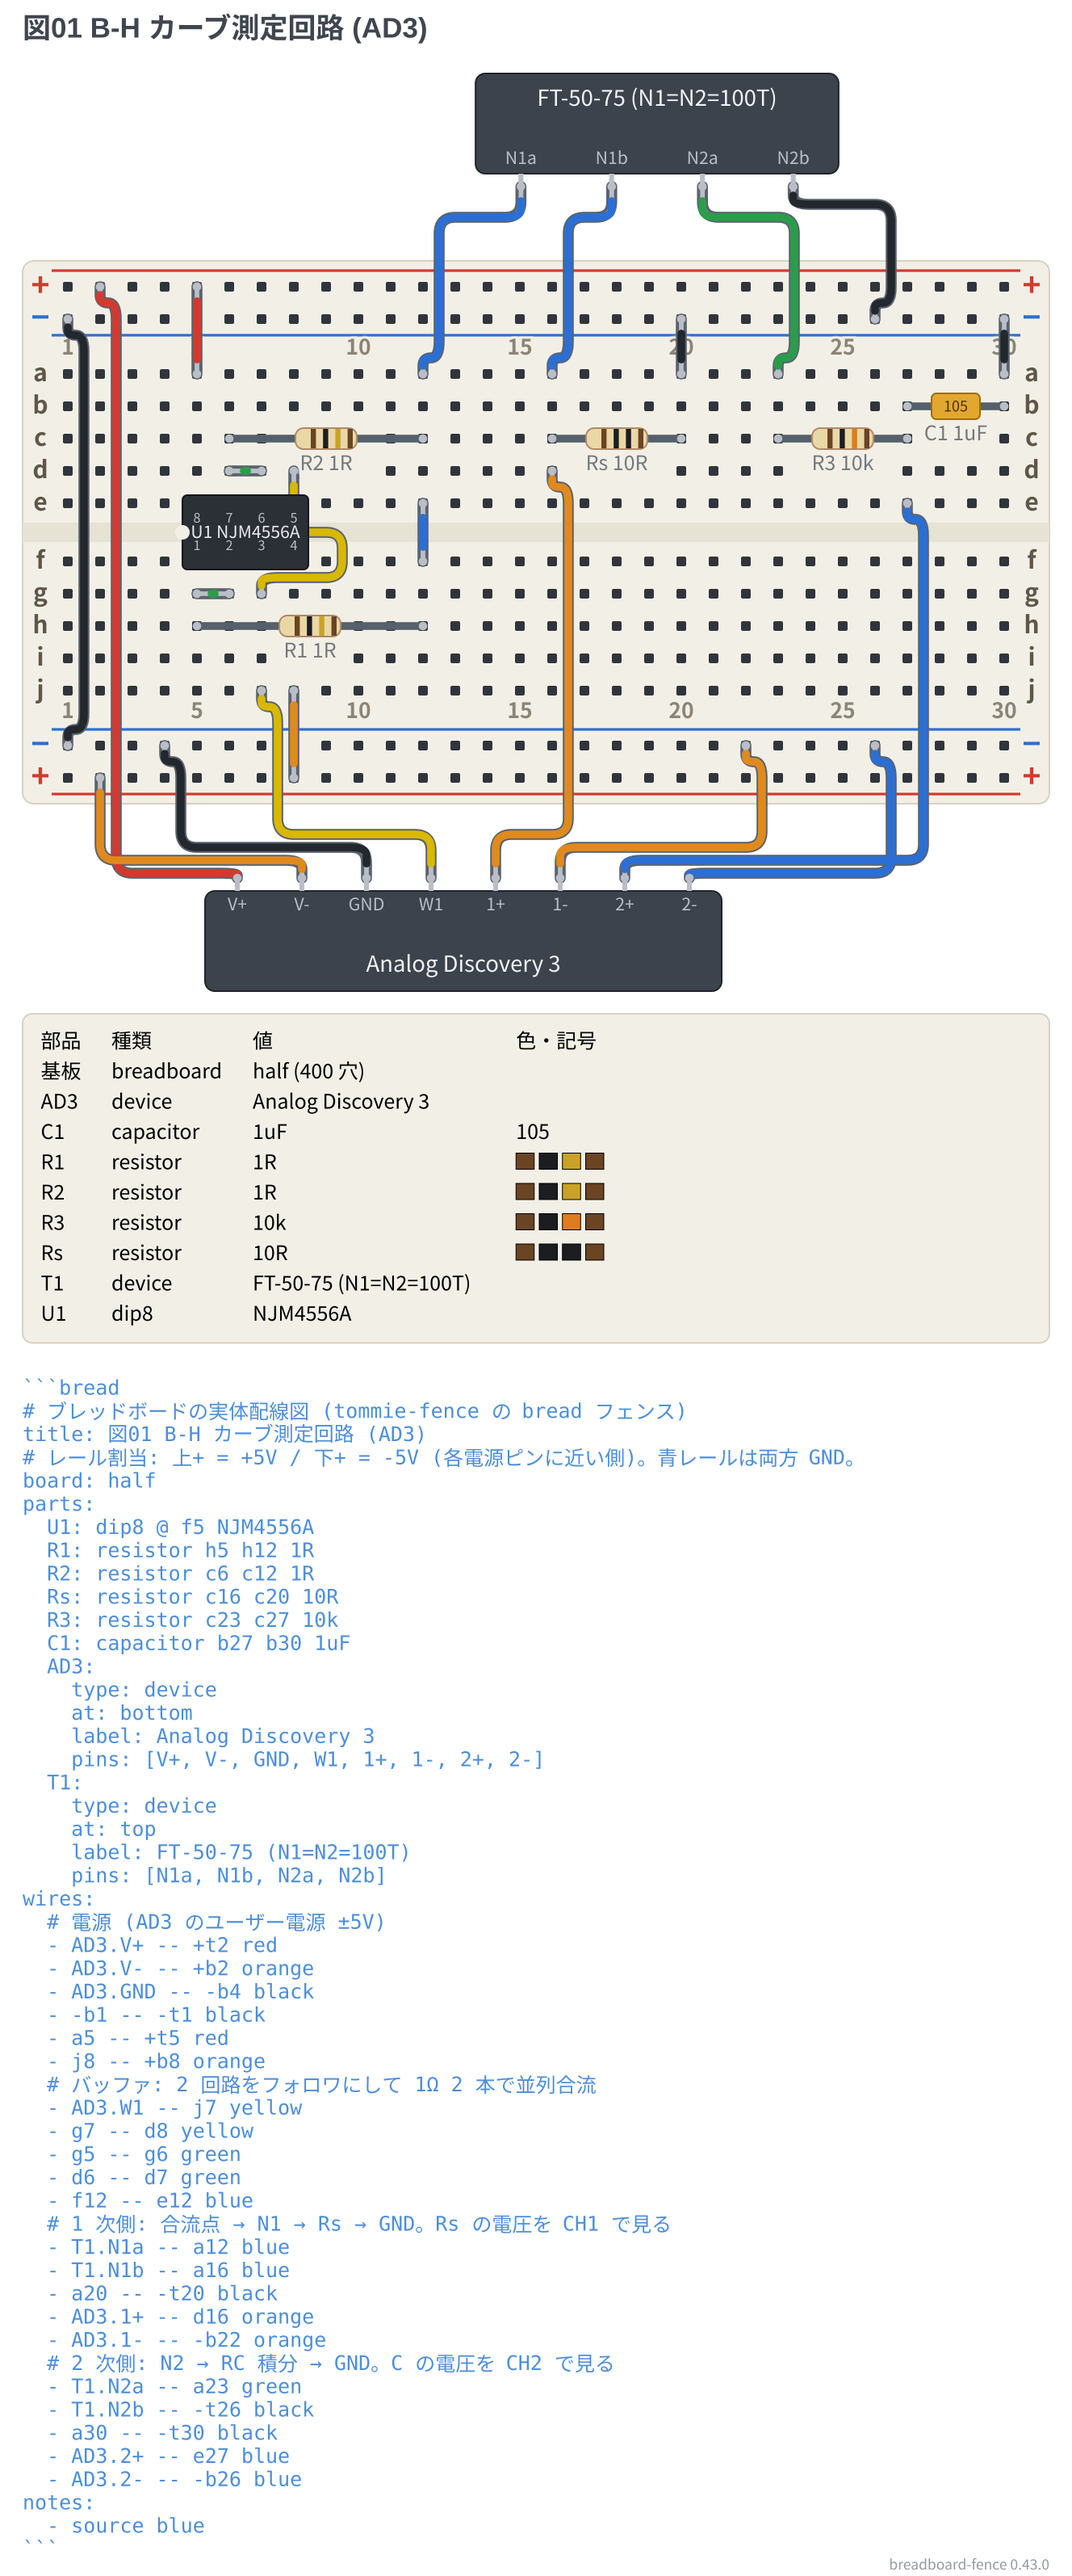
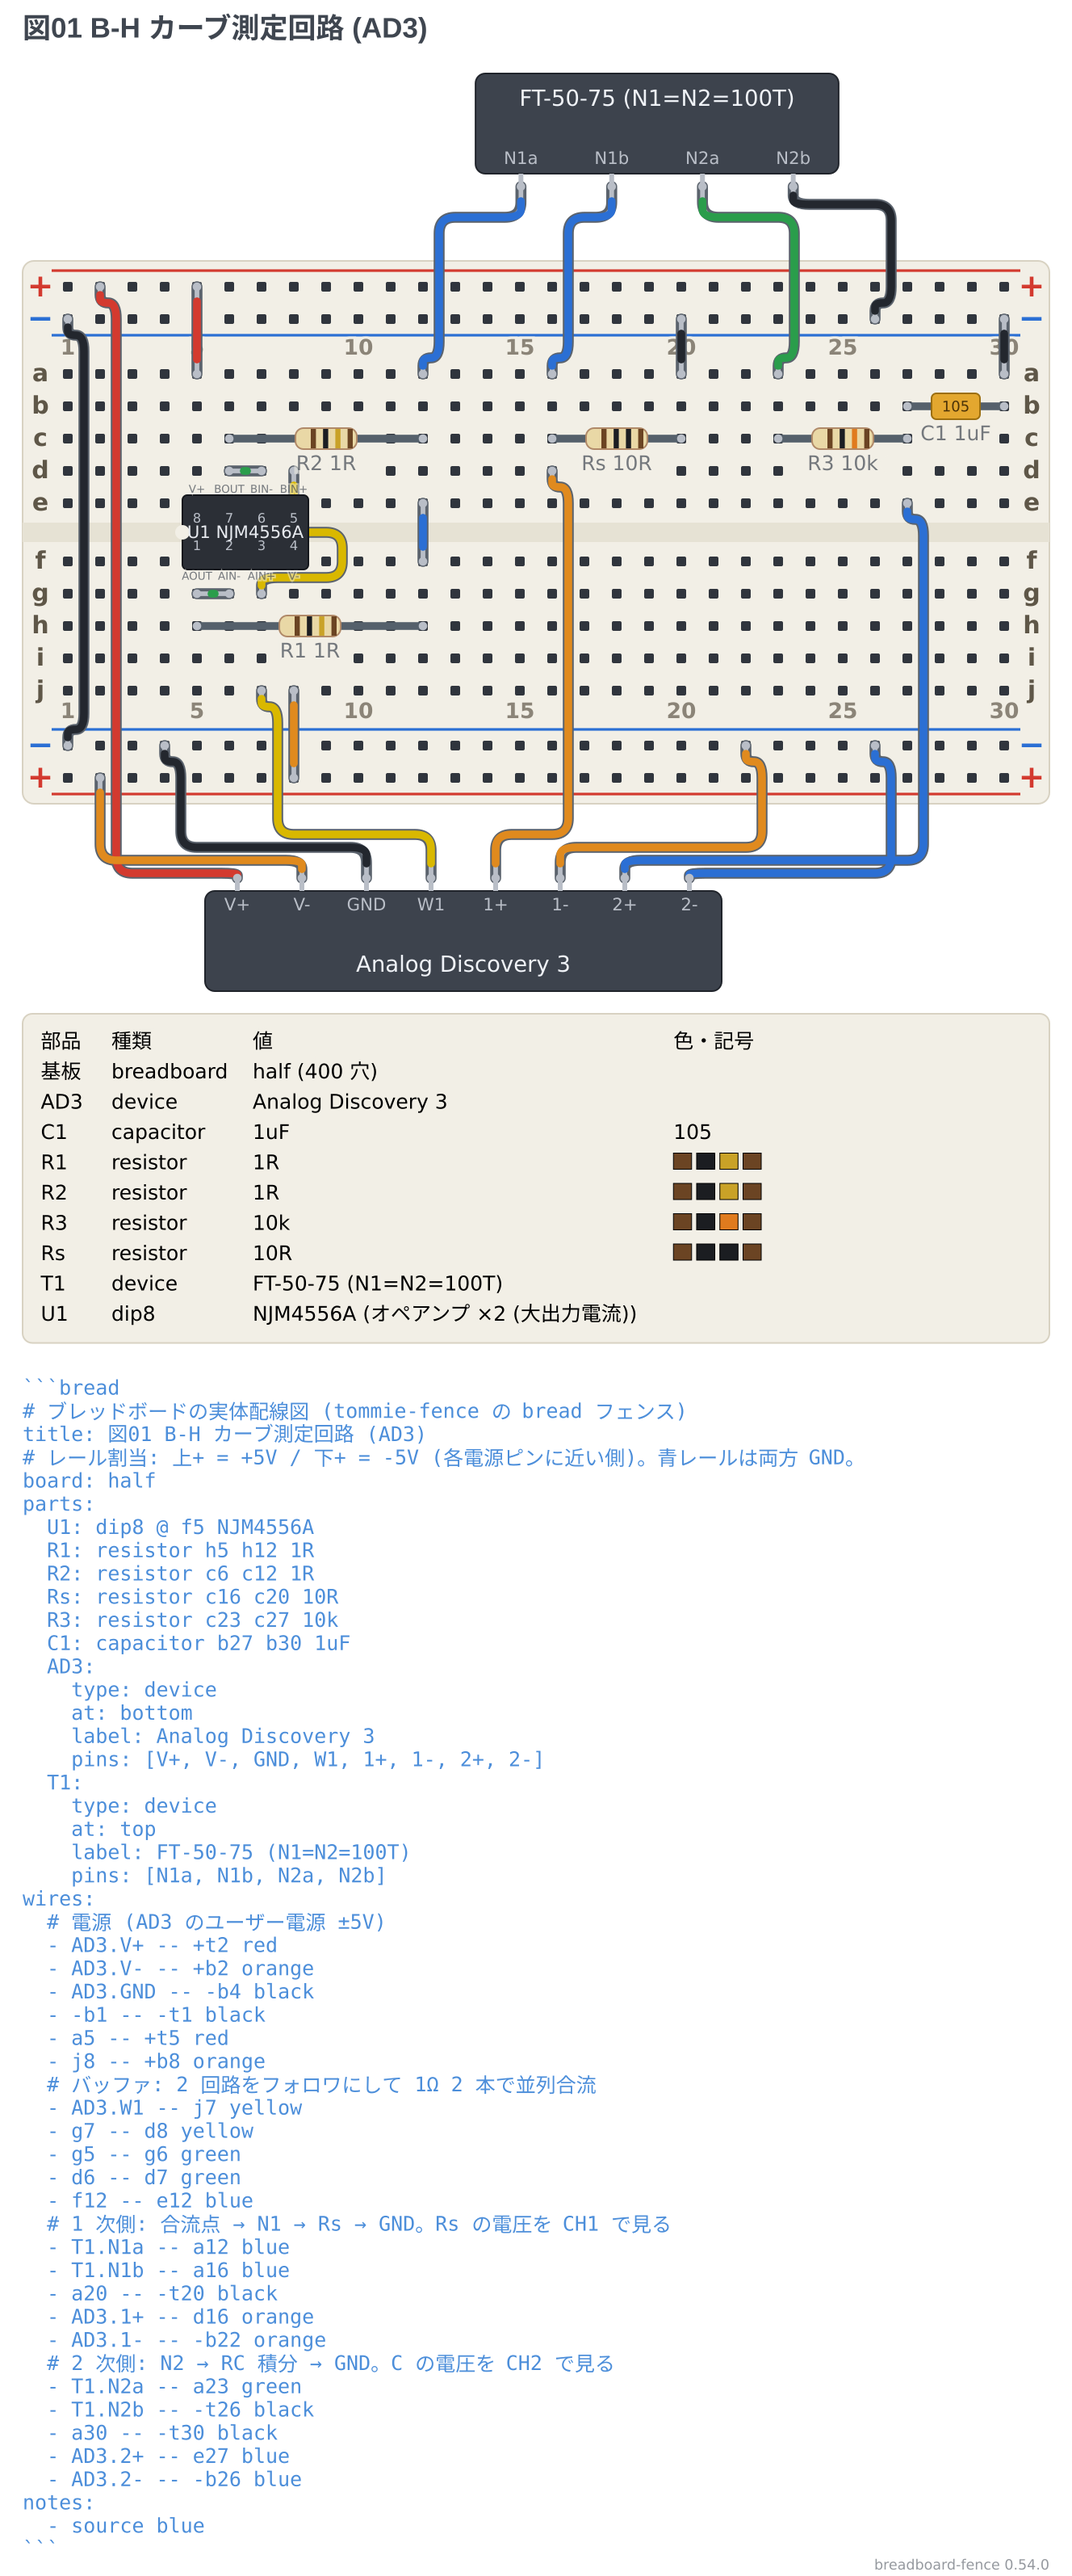
fix: 例と build で毎回出ていた警告を直す
- fence-kit: ピンの名前の表に NJM4556A を足す (日清紡のデータシート 20250306 の PIN FUNCTION)。
  breadboard の例 10-bh-ad2・10-bh-ad3 の「表に無い」のお知らせが消える
- perfboard の例: 11-named-chips は配線しない図なので style: check: off、09-usb は使わないピンを unused: に。
  05-check (わざと壊した図) は警告が出るのが正しいので残し、「こう言われる」の出力例を今の文面に合わせる
- circuit-fence: CLI を束ねるたびに出ていた esbuild の import.meta の警告を、同じ値 (undefined) を明示して消す

🤖 Generated with [Claude Code](https://claude.com/claude-code)

diff --git a/packages/fence-kit/src/parts/pinouts.ts b/packages/fence-kit/src/parts/pinouts.ts
@@ -50,6 +50,7 @@ import { ROLES_EN } from './pinoutRolesEn.ts';
  * | 74HC273 | SN74HC273 SCLS136F、Table 5-1 (N) |
  * | TL082 | TI SLOS081O (2025-09)、Table 4-3 (P の PDIP)。TL072 と同じ並び |
  * | NE5532 | TI SLOS075K (2025-12)、Figure 4-1 (P の 8 ピン PDIP) |
+ * | NJM4556A | 日清紡マイクロデバイス NJM4556A (20250306)、PIN CONFIGURATION / PIN FUNCTION。印字の `A OUTPUT` は `AOUT`、`A –INPUT` は `AIN-` に略した (LM741 と同じ決まり) |
  * | LM324 | TI SLOS066AE (2025-09)、Figure 5-1 (N の PDIP) と Table 5-1 |
  * | LM741 | TI SNOSC25D (NAB の 8 ピン CDIP/PDIP)。印字は OFFSET NULL を `OFFSET1` `OFFSET2` に、INVERTING INPUT を `IN-` などに略した |
  * | ATtiny85 | Atmel 2586Q (2013-08)、Figure 1-1 (PDIP)。名前は IO ポートの印字 (`PB0`〜`PB5`) だけ |
@@ -606,6 +607,10 @@ const ROWS: readonly PinoutRow[] = [
   {
     models: ['NE5532', 'NE5532P', 'NE5532AP', 'SA5532', 'SA5532P'], role: 'オペアンプ ×2 (低雑音・オーディオ)',
     names: ['1OUT', '1IN-', '1IN+', 'VCC-', '2IN+', '2IN-', '2OUT', 'VCC+'],
+  },
+  {
+    models: ['NJM4556A', 'NJM4556AD'], role: 'オペアンプ ×2 (大出力電流)',
+    names: ['AOUT', 'AIN-', 'AIN+', 'V-', 'BIN+', 'BIN-', 'BOUT', 'V+'],
   },
   {
     models: ['LM324', 'LM324N', 'LM324AN', 'LM2902', 'LM2902N', 'LM224', 'LM124'], role: 'オペアンプ ×4',

diff --git a/packages/fence-kit/src/parts/pinoutRolesEn.ts b/packages/fence-kit/src/parts/pinoutRolesEn.ts
@@ -70,6 +70,7 @@ export const ROLES_EN: Readonly<Record<string, string>> = {
   'アナログ スイッチ ×4': 'analog switch ×4',
   'オペアンプ': 'op-amp',
   'オペアンプ ×2': 'op-amp ×2',
+  'オペアンプ ×2 (大出力電流)': 'op-amp ×2 (high output current)',
   'オペアンプ ×2 (CMOS・レール ツー レール)': 'op-amp ×2 (CMOS, rail-to-rail)',
   'オペアンプ ×2 (低雑音・オーディオ)': 'op-amp ×2 (low noise, audio)',
   'オペアンプ ×4': 'op-amp ×4',

diff --git a/packages/breadboard-fence/src/core/index.test.ts b/packages/breadboard-fence/src/core/index.test.ts
@@ -47,7 +47,8 @@ describe('renderBreadboard', () => {
       ['parts:', '  U1: dip8 @ e5 NJM4556A', '  R1: resistor a1 a2', 'wires:', '  - U1.1 -- a1'].join('\n'),
     );
 
-    const joined = netlist.find((net) => net.refs.includes('U1.1'));
+    // NJM4556A はピンの名前の表にあるので、1 番は名前 (AOUT) でネットリストに出る
+    const joined = netlist.find((net) => net.refs.includes('U1.AOUT'));
     expect(joined?.refs).toContain('R1.1');
   });
 

diff --git a/packages/perfboard-fence/examples/05-check.md b/packages/perfboard-fence/examples/05-check.md
@@ -36,15 +36,16 @@ notes:
 この図はこう言われる。
 
 ```text
-perf: 7 行目: R2.1 (a5) がどこにもつながっていません。…
-perf: 7 行目: R2.2 (c5) がどこにもつながっていません。…
-perf: 7 行目: R1 と R2 の胴が重なっています (実物では両方を挿せません)
-perf: 8 行目: R3 (resistor) の足の間隔が狭すぎます (e3 と e4)。…
-perf: 9 行目: D1.1 (g3) がどこにもつながっていません。…
-perf: 12 行目: g10 -- g12 は部品の足を 1 つもつないでいません
+perf: 21 行目: R1 と R2 の胴が重なっています (実物では両方を挿せません)
+perf: 22 行目: R3 (resistor) のピンの間隔が狭すぎます (e3 と e4)。…
+perf: 20 行目: R1 の 1 本のピンがどこにもつながっていません (R1.2 (b7))。…
+perf: 21 行目: R2 の 2 本のピンがどこにもつながっていません (R2.1 (a5)、R2.2 (c5))。…
+perf: 22 行目: R3 の 2 本のピンがどこにもつながっていません (R3.1 (e3)、R3.2 (e4))。…
+perf: 23 行目: D1 の 2 本のピンがどこにもつながっていません (D1.1 (g3)、D1.2 (g5))。…
+perf: 29 行目: g10 -- g12 は部品のピンを 1 つもつないでいません
 ```
 
-見ているのは 5 つ。
+見ているのは 5 つ (この図は**わざと壊してあるので、CLI の `check` と Release の図の焼き直しで毎回この警告が出る**。出るのが正しい)。
 
 | 見るもの | なぜ |
 | --- | --- |

diff --git a/packages/perfboard-fence/examples/09-usb.md b/packages/perfboard-fence/examples/09-usb.md
@@ -12,10 +12,10 @@ Type-A は書いた数だけピンがあり、Type-C は 4 本とも書く。
 に電流計をつないで電流を測れる。
 
 - Type-C は 4 本のピンヘッダの変換基板 — 穴は `GND D+ D- VBUS` の順に 4 つ (`a8 a9 a10 a11`)。
-  使わない `D+` `D-` は ERC が言うのは承知のうえ
+  使わない `D+` `D-` は `unused:` に並べた (ERC に「わざと使わない」と伝える)
 - 両端の `sip2` がブレッドボードのレールに挿すピン (1 番が +5V、2 番が −)
-- `J3` は中央のピンを抜いた L ピンヘッダ。ERC が「`J3.2` がつながっていない」と
-  言うのは承知のうえ (スイッチの `SW1.1` も使っていない)
+- `J3` は中央のピンを抜いた L ピンヘッダ。`J3.2` とスイッチの使わない `SW1.1` も
+  `unused:` に並べた
 - `R1` の 0Ω は GND を B・C 行の配線の上をまたいで D 行へ渡すジャンパ
 - 受け口は基板の上の縁から外へ出る。**題と基板の間を空けて描く**
 
@@ -38,6 +38,7 @@ parts:
   SW1: slide-switch a14 b14 c14
   R1: resistor a7 d7 0
   J4: usb-c/female a8 a9 a10 a11
+unused: [J4.D+, J4.D-, J3.2, SW1.1]
 wires:
   - a11 -- b11 red
   - b11 -- b14 red

diff --git a/packages/perfboard-fence/docs/01-syntax.md b/packages/perfboard-fence/docs/01-syntax.md
@@ -553,6 +553,7 @@ IC を IC ソケットに挿した姿 (`U1: dip8/socket e8 NE555`)。**中身の
 | `TL072` (`TL072CP` `TL082` …) | `dip8` | `1OUT` `1IN-` `1IN+` `VCC-` `2IN+` `2IN-` `2OUT` `VCC+` |
 | `LM393` (`LM393P` `LM393N` `LM393A` `LM2903` `LM293` …) | `dip8` | `1OUT` `1IN-` `1IN+` `GND` `2IN+` `2IN-` `2OUT` `VCC` |
 | `NE5532` (`NE5532P` `NE5532AP` `SA5532` …) | `dip8` | `1OUT` `1IN-` `1IN+` `VCC-` `2IN+` `2IN-` `2OUT` `VCC+` |
+| `NJM4556A` (`NJM4556AD`) | `dip8` | `AOUT` `AIN-` `AIN+` `V-` `BIN+` `BIN-` `BOUT` `V+` |
 | `LM324` (`LM324N` `LM324AN` `LM2902` …) | `dip14` | `1OUT` `1IN-` `1IN+` `VCC+` `2IN+` `2IN-` `2OUT` `3OUT` `3IN-` `3IN+` `VCC-` `4IN+` `4IN-` `4OUT` |
 | `LM741` (`LM741CN` `LM741N` `UA741` …) | `dip8` | `OFFSET1` `IN-` `IN+` `V-` `OFFSET2` `OUT` `V+` `NC` (1・5 番はオフセット調整。8 番は NC) |
 | `ATtiny85` (`ATtiny85-20PU` `ATtiny45` `ATtiny25`) | `dip8` | `PB5` `PB3` `PB4` `GND` `PB0` `PB1` `PB2` `VCC` (1 番 `PB5` は RESET 兼用。PB0=MOSI/SDA、PB1=MISO、PB2=SCK/SCL、PB3=XTAL1、PB4=XTAL2) |

diff --git a/packages/breadboard-fence/docs/02-cheatsheet.md b/packages/breadboard-fence/docs/02-cheatsheet.md
@@ -137,6 +137,7 @@ parts:
 | `TL072` (`TL072CP` `TL082` …) | `dip8` | `1OUT` `1IN-` `1IN+` `VCC-` `2IN+` `2IN-` `2OUT` `VCC+` |
 | `LM393` (`LM393P` `LM393N` `LM393A` `LM2903` `LM293` …) | `dip8` | `1OUT` `1IN-` `1IN+` `GND` `2IN+` `2IN-` `2OUT` `VCC` |
 | `NE5532` (`NE5532P` `NE5532AP` `SA5532` …) | `dip8` | `1OUT` `1IN-` `1IN+` `VCC-` `2IN+` `2IN-` `2OUT` `VCC+` |
+| `NJM4556A` (`NJM4556AD`) | `dip8` | `AOUT` `AIN-` `AIN+` `V-` `BIN+` `BIN-` `BOUT` `V+` |
 | `LM324` (`LM324N` `LM324AN` `LM2902` …) | `dip14` | `1OUT` `1IN-` `1IN+` `VCC+` `2IN+` `2IN-` `2OUT` `3OUT` `3IN-` `3IN+` `VCC-` `4IN+` `4IN-` `4OUT` |
 | `LM741` (`LM741CN` `LM741N` `UA741` …) | `dip8` | `OFFSET1` `IN-` `IN+` `V-` `OFFSET2` `OUT` `V+` `NC` (1・5 番はオフセット調整。8 番は NC) |
 | `ATtiny85` (`ATtiny85-20PU` `ATtiny45` `ATtiny25`) | `dip8` | `PB5` `PB3` `PB4` `GND` `PB0` `PB1` `PB2` `VCC` (1 番 `PB5` は RESET 兼用。PB0=MOSI/SDA、PB1=MISO、PB2=SCK/SCL、PB3=XTAL1、PB4=XTAL2) |

diff --git a/packages/circuit-fence/docs/02-cheatsheet.md b/packages/circuit-fence/docs/02-cheatsheet.md
@@ -158,6 +158,7 @@ parts:
 | `TL072` (`TL072CP` `TL082` …) | `dip8` | `1OUT` `1IN-` `1IN+` `VCC-` `2IN+` `2IN-` `2OUT` `VCC+` |
 | `LM393` (`LM393P` `LM393N` `LM393A` `LM2903` `LM293` …) | `dip8` | `1OUT` `1IN-` `1IN+` `GND` `2IN+` `2IN-` `2OUT` `VCC` |
 | `NE5532` (`NE5532P` `NE5532AP` `SA5532` …) | `dip8` | `1OUT` `1IN-` `1IN+` `VCC-` `2IN+` `2IN-` `2OUT` `VCC+` |
+| `NJM4556A` (`NJM4556AD`) | `dip8` | `AOUT` `AIN-` `AIN+` `V-` `BIN+` `BIN-` `BOUT` `V+` |
 | `LM324` (`LM324N` `LM324AN` `LM2902` …) | `dip14` | `1OUT` `1IN-` `1IN+` `VCC+` `2IN+` `2IN-` `2OUT` `3OUT` `3IN-` `3IN+` `VCC-` `4IN+` `4IN-` `4OUT` |
 | `LM741` (`LM741CN` `LM741N` `UA741` …) | `dip8` | `OFFSET1` `IN-` `IN+` `V-` `OFFSET2` `OUT` `V+` `NC` (1・5 番はオフセット調整。8 番は NC) |
 | `ATtiny85` (`ATtiny85-20PU` `ATtiny45` `ATtiny25`) | `dip8` | `PB5` `PB3` `PB4` `GND` `PB0` `PB1` `PB2` `VCC` (1 番 `PB5` は RESET 兼用。PB0=MOSI/SDA、PB1=MISO、PB2=SCK/SCL、PB3=XTAL1、PB4=XTAL2) |

diff --git a/packages/perfboard-fence/examples/11-named-chips.md b/packages/perfboard-fence/examples/11-named-chips.md
@@ -17,6 +17,8 @@ board:
   h: 1.6mm
   material: FR-4
   slots: on
+style:
+  check: off
 parts:
   K1: relay b2
   D1: diode a4 a2 1N4148
@@ -35,4 +37,4 @@ wires:
 
 - **G5V-2 のピンは DIP16 の 16 か所のうち 8 か所**。ピンの無い位置の穴は空いている
 - 使わないピンは空けたままでよい。この図は部品の並びを見せるためのもので、接点・
-  フォトカプラの出力・7 セグのピンは配線していない (ERC はつながっていないピンを言う)
+  フォトカプラの出力・7 セグのピンは配線していない。そのため `style: check: off` で未結線の検査を外した ([05-check](05-check.md) の「外したいとき」)

diff --git a/packages/perfboard-fence/CHANGELOG.md b/packages/perfboard-fence/CHANGELOG.md
@@ -5,6 +5,10 @@
 
 ## [Unreleased]
 
+### Fixed
+
+- 例の 11-named-chips は配線しない図なので `style: check: off` に、09-usb は使わないピンを `unused:` に書いた (どちらも未結線のお知らせを毎回出していた)。05-check の「こう言われる」の出力例を今の文面と行番号に合わせた
+
 ## [0.53.0] - 2026-11-02
 
 ### Added

diff --git a/packages/fence-kit/CHANGELOG.md b/packages/fence-kit/CHANGELOG.md
@@ -5,6 +5,10 @@
 
 ## [Unreleased]
 
+### Added
+
+- ピンの名前の表に `NJM4556A` (日清紡のオペアンプ ×2、大出力電流) を足した。印字の `A OUTPUT` `A –INPUT` は `AOUT` `AIN-` に略した
+
 ## [0.32.0] - 2026-11-02
 
 ### Added

diff --git a/packages/breadboard-fence/CHANGELOG.md b/packages/breadboard-fence/CHANGELOG.md
@@ -5,6 +5,10 @@
 
 ## [Unreleased]
 
+### Added
+
+- `dip8` の型番 `NJM4556A` のピンの名前を刷る (fence-kit)。例の 10-bh-ad2・10-bh-ad3 で出ていた「表に無い」のお知らせが消える
+
 ## [0.54.0] - 2026-11-02
 
 ### Added
